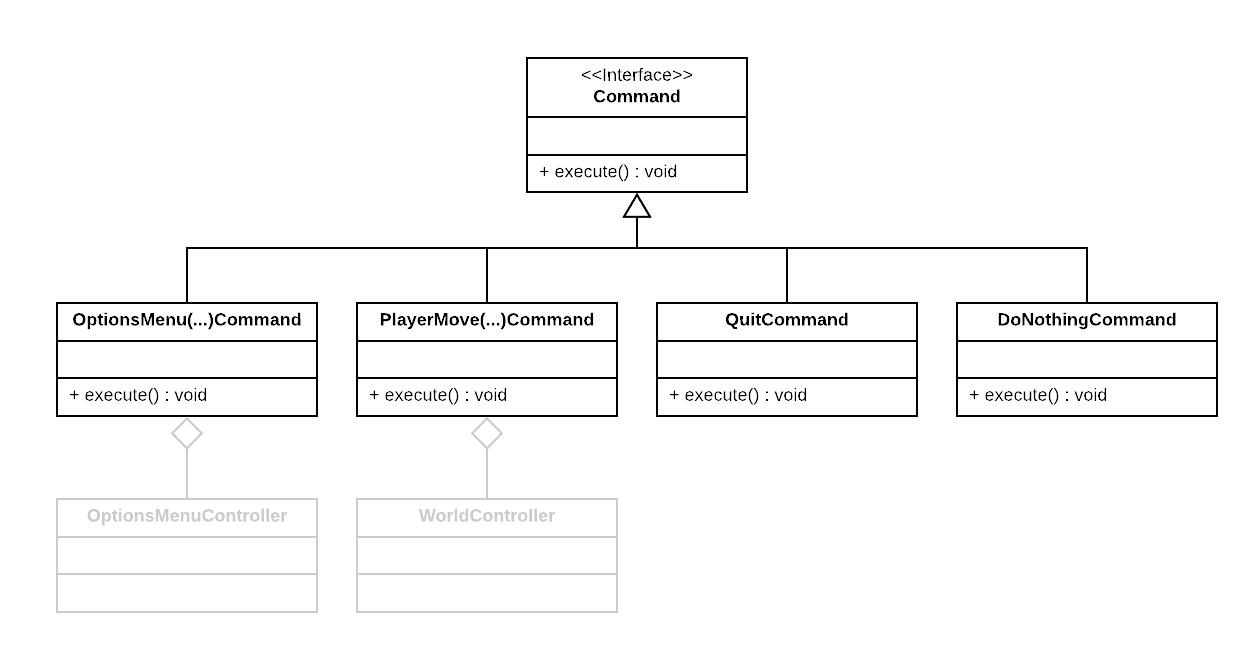
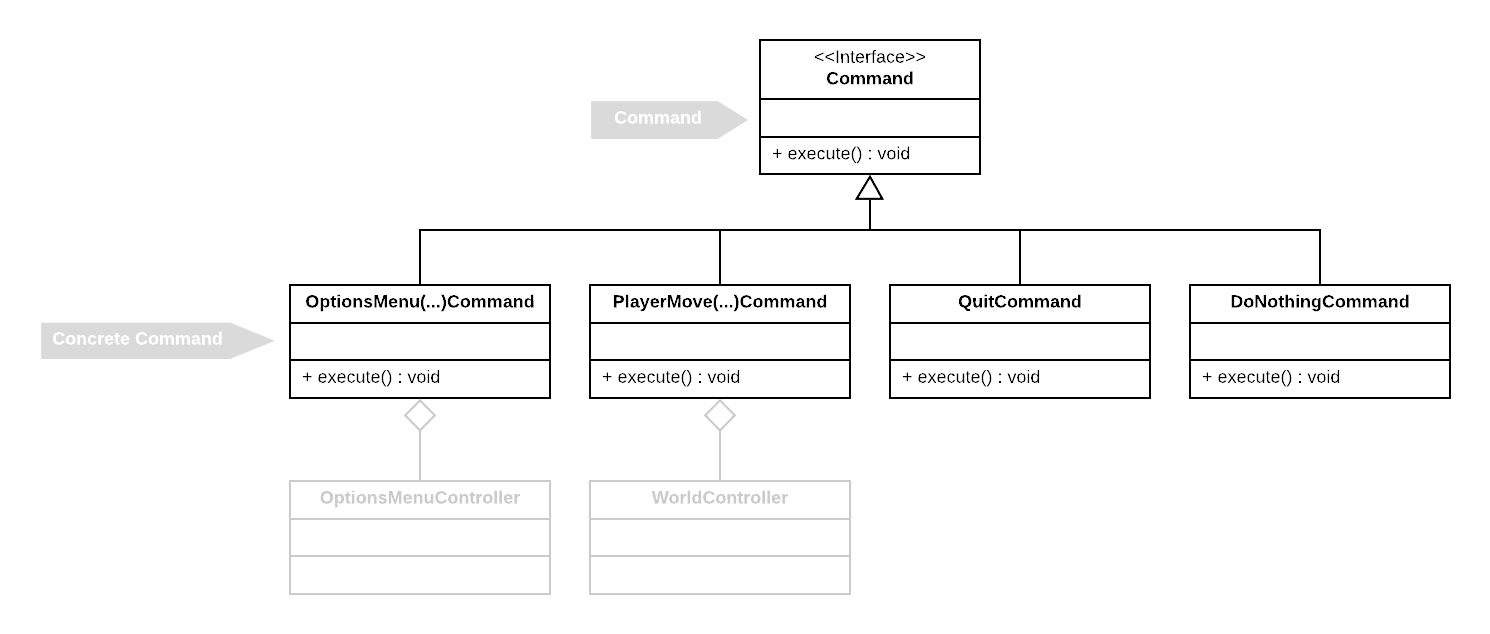
Updated 2 png files with tags uml & Added one code smell

diff --git a/docs/README.md b/docs/README.md
@@ -370,6 +370,16 @@ the class [WorldController](../src/main/java/lpoo/pokemonascii/rules/WorldContro
 if statement where we could appply the refactor method **Introduce Null Object** by creating a subclass that will perform
  the role of a null object, create a method isNull() and replace the code in the correct places.
 
+The [Route6 Class](../src/main/java/lpoo/pokemonascii/data/Route6.java) is another example of the strong use of switch
+statements. The whole class is a group of functions full of switch statements. This class represents the
+only map of the game. The map is made of 4 zones. For each zones there are different elements. For
+that reason, we use the switch cases as a resource to define the elements for each case. 
+
+This situation could be changed using the same refactor mentioned before. We would create subclasses,
+one for called Zone and subclasses of Zone. By doing this, we would be able to easily define the different
+behaviours for each zone without getting the help of switch cases.
+
+
 #### Change Preventers - Parallel Inheritance
 
 Whenever we create a subclass for [Option class](../src/main/java/lpoo/pokemonascii/data/options/Option.java), 
